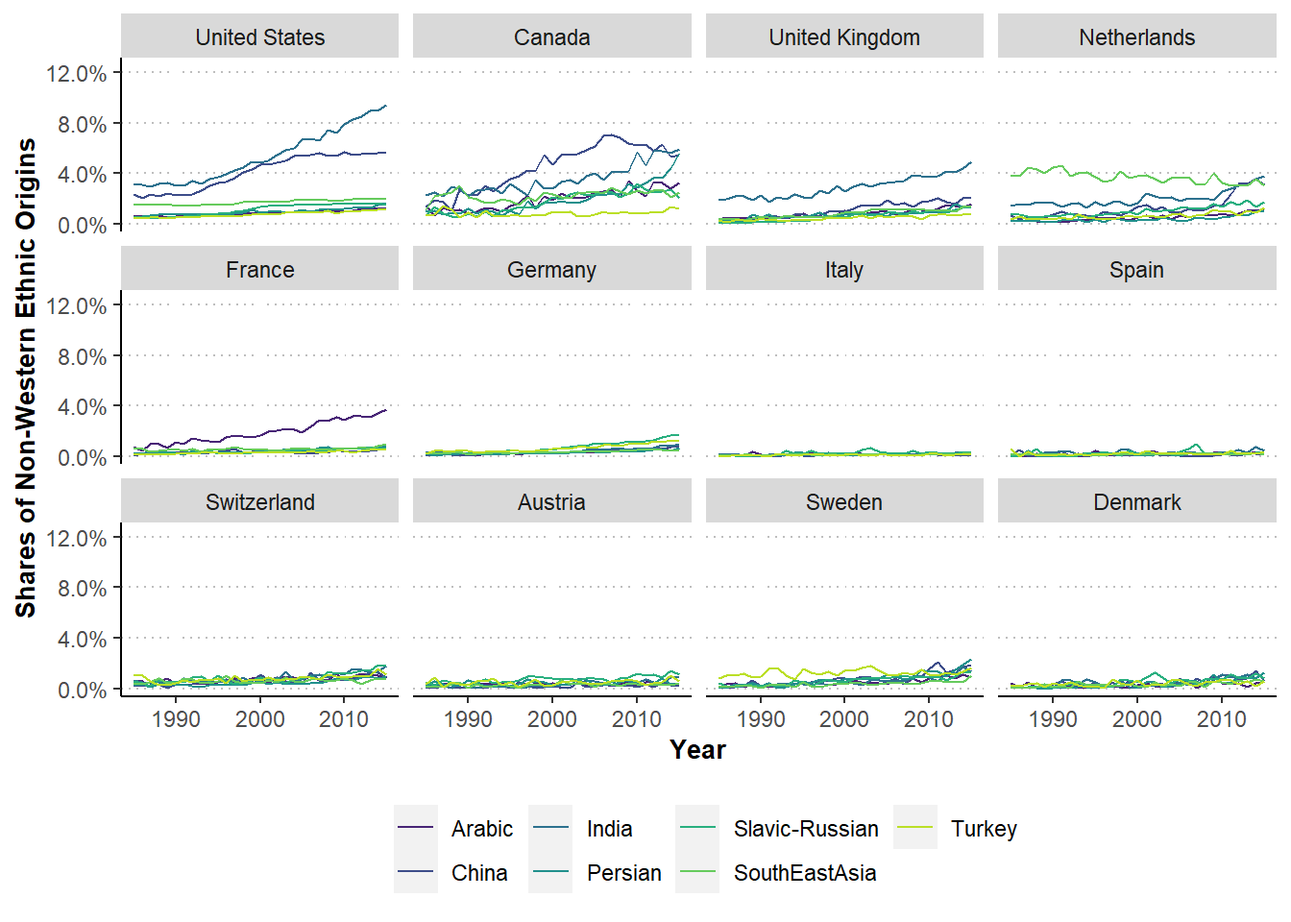
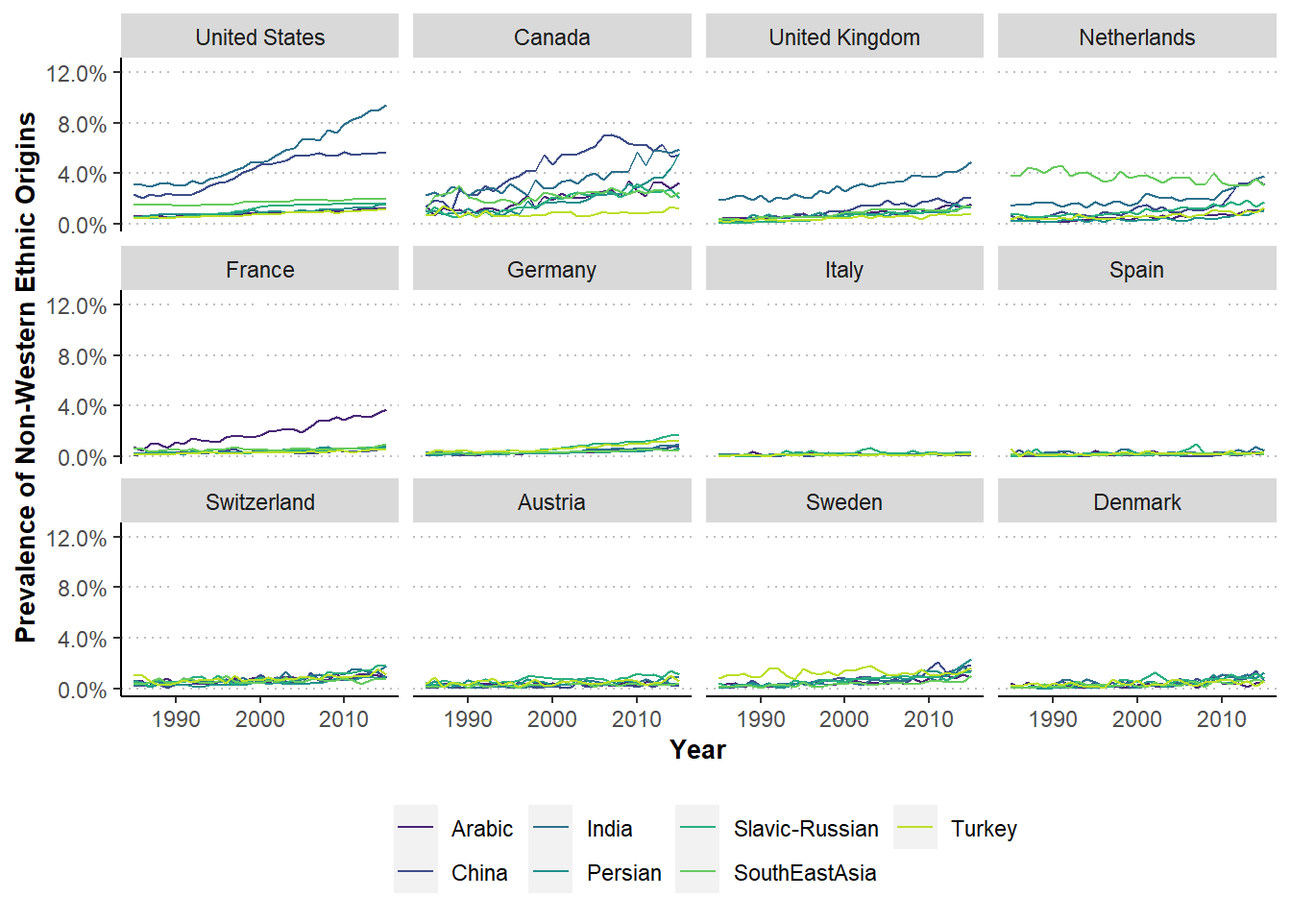
insert text after proofreading

Changed region(s): [[0.0, 0.125, 0.0312, 0.7188]]

diff --git a/report/report_main.html b/report/report_main.html
@@ -14,7 +14,7 @@
 
 <title>report_main.utf8</title>
 
-<script src="report_main_files/header-attrs-2.4/header-attrs.js"></script>
+<script src="report_main_files/header-attrs-2.7/header-attrs.js"></script>
 
 <style type="text/css">
   code{white-space: pre-wrap;}
@@ -23,7 +23,9 @@
   div.column{display: inline-block; vertical-align: top; width: 50%;}
   div.hanging-indent{margin-left: 1.5em; text-indent: -1.5em;}
   ul.task-list{list-style: none;}
-      </style>
+      .display.math{display: block; text-align: center; margin: 0.5rem auto;}
+  </style>
+
 
 
 
@@ -78,23 +80,24 @@
 <p><img src="title_picture.jpg" style="width:100.0%" /> <a href="https://unsplash.com/photos/MiVrRlSe4BI" target="_blank">Ellis Island, United States in 1910 | The New York Public Library</a></p>
 <p><br></p>
 <!-- TEASER ABSTRACT -->
-<p><strong>Inventors with non-western ethnic backgrounds have tremendously increased in the USA and contribute significantly to its inventive capacity. This is different in continental European countries that have been lagging behind in the global race for talents.</strong></p>
+<p><strong>The number of inventors with non-western ethnic backgrounds has increased tremendously in the USA and contributes significantly to its inventive capacity. This is different in continental European countries, which have been lagging behind in the global race for talents.</strong></p>
 <p><br></p>
-<p>Since 2010, around half of the Nobel Prizes in Chemistry, Medicine and Physics were awarded to researchers working at U.S. institutions. At the same time, around 40% of these prize winners were <em>not</em> born in the USA. This highlights that the USA also had important help from abroad to obtain its remarkable position. The country benefits substantially from a <a href=https://en.wikipedia.org/wiki/Human_capital_flight#Brain_gain target = “_blank”><em>Brain Gain</em></a> of foreign talents who often immigrated already as students or aspiring young researchers (see, e.g., <a href =https://direct.mit.edu/rest/article-abstract/95/2/698/58091/Chinese-Graduate-Students-and-U-S-Scientific target = “_blank”>Ganguli and Piacentini, 2013</a>; <a href=https://www.science.org/doi/full/10.1126/science.321.5886.185 target = “_blank”>Mervis, 2008</a> or <a href=https://direct.mit.edu/rest/article-https://www.science.org/doi/abs/10.1126/science.285.5431.1213 target=“_blank”>Levin and Stephan, 1999</a>).</p>
+<p>Since 2010, around half of the Nobel Prizes in Chemistry, Medicine and Physics have been awarded to researchers working at U.S. institutions. At the same time, around 40% of these prize winners were <em>not</em> born in the USA. This highlights the fact that the USA has also had important help from abroad to obtain its remarkable position. The country benefits substantially from a <a href=https://en.wikipedia.org/wiki/Human_capital_flight#Brain_gain target = “_blank”><em>Brain Gain</em></a> of foreign talents who often immigrated when they were students or aspiring young researchers (see, e.g., <a href =https://direct.mit.edu/rest/article-abstract/95/2/698/58091/Chinese-Graduate-Students-and-U-S-Scientific target = “_blank”>Ganguli and Piacentini, 2013</a>; <a href=https://www.science.org/doi/full/10.1126/science.321.5886.185 target = “_blank”>Mervis, 2008</a> or <a href=https://direct.mit.edu/rest/article-https://www.science.org/doi/abs/10.1126/science.285.5431.1213 target=“_blank”>Levin and Stephan, 1999</a>).</p>
 <p><br></p>
-<p>This brain gain for the USA is not restricted to academia. It can also be observed when looking at the ethnic composition of patent inventors. Traditionally, patenting in the USA was strongly dominated by inventors of Anglo-Saxon and—although to a (much) smaller extent—continental European ethnic origins. In recent decades, this has no longer been the case to the same extent. Especially the share of inventors with Chinese, Indian and other non-western ethnic backgrounds has strongly increased since the 1990s. Today, a substantial fraction of U.S.-based inventors is not of Anglo-Saxon origin anymore (<a href=https://www.hbs.edu/ris/Publication%20Files/Kerr%20WP08_EthMatch_f657d992-cf76-4b76-8b52-61cac126b5a8.pdf target = “_blank”>Kerr, 2008</a>).</p>
+<p>This brain gain for the USA is not restricted to academia. It can also be observed when looking at the ethnic composition of patent inventors. Traditionally, patenting in the USA has been strongly dominated by inventors of Anglo-Saxon and—although to a (much) smaller extent—continental European ethnic origins. In recent decades, this has no longer been the case. The share of inventors with Chinese, Indian and other non-western ethnic backgrounds has shown an especially strong increase since the 1990s. Today, a substantial fraction of U.S.-based inventors is no longer of Anglo-Saxon origin (<a href=https://www.hbs.edu/ris/Publication%20Files/Kerr%20WP08_EthMatch_f657d992-cf76-4b76-8b52-61cac126b5a8.pdf target = “_blank”>Kerr, 2008</a>).</p>
 <p><br></p>
-<p>Did this trend also emerge in other high-income countries, for example in Western Europe? We can investigate this question using a deep learning algorithm that classifies patent inventors’ ethnic origins based on their names (we are happy to provide methodological details to interested readers upon <a href="mailto:matthias.niggli@unibas.ch"> request</a>). This allows us to examine the ethnic composition of inventors beyond the USA and for a long period of time. Figure 1 plots the prevalence of inventors with different ethnic origins for 12 high-income countries.</p>
+<p>Has this trend also emerged in other high-income countries, for example, in Western Europe? We can investigate this question using a deep learning algorithm that classifies patent inventors’ ethnic origins based on their names (we are happy to provide methodological details to interested readers upon <a href="mailto:matthias.niggli@unibas.ch"> request</a>). This allows us to examine the ethnic composition of inventors both beyond the USA and for a long period of time. Figure 1 plots the prevalence of inventors with different ethnic origins for 12 high-income countries.</p>
 <!-- METHODOLOGY BOX / LINK TO PAPER -->
 <!-- <details> -->
 <!--   <summary>*Click here to get a detailed description of how we determine the ethnicity of inventors*</summary> -->
-<!-- <embed src="https://drive.google.com/file/d/1fq3oiSNQVscQ4m8AnzCHEbl0IyTK2j-Y/preview" width="100%" height="600"> -->
+<!-- <embed src="LINK TO PAPER" width="100%" height="600"> -->
 <!-- </details> -->
 <p><br></p>
 <hr class="hr_red">
 <div id="figure-1-the-prevalence-of-non-western-ethnic-inventors-is-low-in-continental-europe" class="section level4">
 <h4><strong>Figure 1: The Prevalence of Non-Western Ethnic Inventors Is Low in Continental Europe</strong></h4>
-<p><span style="font-size:0.8em"><strong>Prevalence of Non-Western Ethnic Origins Across Countries</strong></span> <img src="report_main_files/figure-html/unnamed-chunk-2-1.png" width="672" /> <span style="font-size:0.8em"><em>Sources and notes: Own estimations of the <a href="https://www.cieb.unibas.ch" target ="blank">CIEB</a> using the names of inventors as stated on EPO and USPTO patents. The raw data is obtained from the <a href="https://www.uspto.gov/" target ="blank">USPTO</a> and the <a href=https://stats.oecd.org/index.aspx?queryid=79486# target = “_blank”>OECD</a>. The processed data shown in the plot is available on <a href="https://github.com/cieb-unibas/inventor_ethnicity" target ="blank">Github</a>.</em></span></p>
+<!-- <span style="font-size:0.8em">**Prevalence of Non-Western Ethnic Origins Across Countries**</span> -->
+<p><img src="report_main_files/figure-html/unnamed-chunk-2-1.png" width="672" /> <span style="font-size:0.8em"><em>Sources and notes: Estimated Prevalence of Non-Western Ethnic Origins Across Countries. Own estimations of the <a href="https://www.cieb.unibas.ch" target ="blank">CIEB</a> using the names of inventors as stated on EPO and USPTO patents. The raw data is obtained from the <a href="https://www.uspto.gov/" target ="blank">USPTO</a> and the <a href=https://stats.oecd.org/index.aspx?queryid=79486# target = “_blank”>OECD</a>. The processed data shown in the plot is available on <a href="https://github.com/cieb-unibas/inventor_ethnicity" target ="blank">Github</a>.</em></span></p>
 <!-- HIGHLIGHT -->
 <div class="bloc_div">
 <blockquote>
@@ -102,15 +105,16 @@
 </blockquote>
 </div>
 <p><br></p>
-<p>The main take-away from this graph is a remarkable difference between North American and most European countries, with the United Kingdom and the Netherlands somewhere in between. Similar to the USA, Canada has also witnessed a stark increase of the prevalence of non-western inventors (although the absolute numbers are on a much smaller level). But most continental European countries look rather different. For example, France has experienced a significant increase of Arabic inventors, but all other non-western ethnic groups remained on low levels. In Germany, the prevalence of inventors with Turkish or Slavic-Russian origins has somewhat increased but remains rather low. Similarly, slight increases for some non-western ethnic groups can be found in Switzerland, Sweden, Austria and Denmark. However, in all these continental European countries, the prevalence of non-western origin inventors is on a much lower level compared to the USA. The contrast is even more pronounced in southern European countries like Italy and Spain.</p>
+<p>The main take-away from this graph is the remarkable difference between North American and most European countries, with the United Kingdom and the Netherlands somewhere in between. Similar to the USA, Canada has also witnessed a stark increase in the prevalence of non-western inventors (although the absolute numbers are on a much smaller scale). But most continental European countries look rather different. For example, France has experienced a significant increase in Arabic inventors, but all other non-western ethnic groups have remained on low levels. In Germany, the prevalence of inventors with Turkish or Slavic-Russian origins has risen somewhat, but remains rather low. Similarly, slight increases for some non-western ethnic groups can be found in Switzerland, Sweden, Austria, and Denmark. However, in all these continental European countries, the prevalence of non-western origin inventors is on a much lower level compared to the USA. The contrast is even more pronounced in southern European countries, like Italy and Spain.</p>
 <p><br></p>
-<p>Another interesting finding is that non-western ethnic inventors in the USA can be found predominantly in emerging high-technology fields, such as “Information &amp; Communication Technology” (ICT). Figure 2 illustrates this with an interactive visualization. It shows the combined prevalence of all the considered ethnic origins across different technological fields for the same countries as before.</p>
+<p>Another interesting finding is that non-western ethnic inventors in the USA can be found predominantly in emerging high-technology fields, such as “Information &amp; Communication Technology” (ICT). Figure 2 illustrates this interactively, showing the combined prevalence of all the considered ethnic origins across different technological fields for the same countries as before.</p>
 <p><br></p>
 <hr class="hr_red">
 </div>
 <div id="figure-2-the-usa-has-the-highest-non-western-prevalence-in-emerging-high-technology-fields" class="section level4">
 <h4><strong>Figure 2: The USA Has the Highest Non-Western Prevalence in Emerging High-Technology Fields</strong></h4>
-<p><span style="font-size:0.8em"><strong>Combined Prevalence of Non-Western Ethnic Origins Across Technologies</strong></span> <head>
+<!-- <span style="font-size:0.8em">**Combined Prevalence of Non-Western Ethnic Origins Across Technologies**</span> -->
+<p><head>
   <meta charset="utf-8">
   <link rel="stylesheet" href="https://maxcdn.bootstrapcdn.com/bootstrap/3.4.0/css/bootstrap.min.css">
   <link rel="stylesheet" href="https://cdn.jsdelivr.net/npm/bootstrap-select@1.13.9/dist/css/bootstrap-select.min.css">
@@ -342,7 +346,7 @@ Plotly.newPlot('myDiv', data, layout, {displayModeBar: false});
 <div id='myDiv'></div>
 
 </body>
-     <span style="font-size:0.8em"><em>Sources and notes: Own estimations of the <a href="https://www.cieb.unibas.ch" target ="blank">CIEB</a> using the names of inventors as stated on EPO and USPTO patents. The raw data is obtained from the <a href="https://www.uspto.gov/" target ="blank">USPTO</a> and the <a href=https://stats.oecd.org/index.aspx?queryid=79486# target = “_blank”>OECD</a>. The processed data shown in the plot is available on <a href="https://github.com/cieb-unibas/inventor_ethnicity" target ="blank">Github</a>.</em></span></p>
+     <span style="font-size:0.8em"><em>Sources and notes: Combined Prevalence of Non-Western Ethnic Origins Across Technologies. Own estimations of the <a href="https://www.cieb.unibas.ch" target ="blank">CIEB</a> using the names of inventors as stated on EPO and USPTO patents. The raw data is obtained from the <a href="https://www.uspto.gov/" target ="blank">USPTO</a> and the <a href=https://stats.oecd.org/index.aspx?queryid=79486# target = “_blank”>OECD</a>. The processed data shown in the plot is available on <a href="https://github.com/cieb-unibas/inventor_ethnicity" target ="blank">Github</a>.</em></span></p>
 <p><br></p>
 <!-- HIGHLIGHT -->
 <div class="bloc_div">
@@ -350,24 +354,25 @@ Plotly.newPlot('myDiv', data, layout, {displayModeBar: false});
 <strong><em>The vast increase of non-western inventors in the USA has been strongly directed towards emerging high-technology fields</em></strong>
 </blockquote>
 </div>
-<p>The USA has a clearly higher ethnic diversity in almost all fields compared to European countries. But there is substantial heterogeneity across technologies within the USA. Besides ICT, non-western inventors are much more prevalent in technology fields such as “Computer Technology” or “Semiconductors” compared to more traditional fields such as “Transport” or “Machines”. This pattern cannot be observed for European countries, where the prevalence is similar and rather low in most technology fields. Hence, our analysis highlights two main points: First, the bulk of migrating non-western inventors has gone to the USA and not to continental European countries. Second, the inflow of non-western inventors to the USA has been strongly directed towards emerging high-technology fields.</p>
+<p>The ethnic diversity in the USA is clearly higher in almost all fields compared to European countries. But there is substantial heterogeneity across technologies within the USA. In addition to ICT, non-western inventors are much more prevalent in technology fields, such as “Computer Technology” or “Semiconductors”, compared to more traditional fields, such as “Transport” or “Machines”. This pattern cannot be observed for European countries, where the prevalence is similar and rather low in most technology fields. Hence, our analysis highlights two main points: First, the bulk of migrating, non-western inventors has gone to the USA and not to continental European countries. Second, the inflow of non-western inventors to the USA has been strongly directed towards emerging high-technology fields.</p>
 <p><br></p>
 </div>
 </div>
 <div id="what-does-this-mean-for-european-policymakers" class="section level3">
 <h3><strong>What does this mean for European Policymakers? </strong></h3>
-<p>Should European policymakers be concerned about these differences? There is no final answer, but researchers have found evidence that immigration and diversity can foster innovative activity and growth through several channels. First of all, access to highly skilled talents is an important factor for companies’ decisions where to locate their research and development activities (<a href=https://link.springer.com/article/10.1057/jibs.2008.92 target = “_blank”>Lewin, Massini and Peeters, 2009</a>), and more diverse inventor teams seem to directly enhance inventive output of firms (see <a href=https://www.sciencedirect.com/science/article/abs/pii/S0048733319300824 target = “_blank”>Ferucci and Lissoni, 2019</a> or <a href=https://link.springer.com/article/10.1007/s00148-013-0491-7 target = “_blank”>Parrotta, Pozzoli and Pytlikova, 2014</a>). More generally, there is a large literature demonstrating that immigration also spurs innovation at the country-level (see, e.g., <a href=https://www.nber.org/papers/w27075 target = “_blank”>Burchardi, Chaney, Hassan, Tarquinio and Terry, 2020</a> or <a href=https://www.aeaweb.org/articles?id=10.1257/aer.p20171021 target = “_blank”>Akcigit, Grigsby and Nicholas, 2017</a> for the USA and <a href=https://papers.ssrn.com/sol3/papers.cfm?abstract_id=3728867 target = “_blank”>Cristelli and Lissoni, 2020</a> or <a href=https://www.sciencedirect.com/science/article/abs/pii/S0048733318302737 target = “_blank”> Fassio, Montobbio, and Venturini, 2019</a> for Switzerland and European countries). Hence, there is extensive evidence that immigration can contribute to a country’s innovation capabilities. The USA’s extraordinary attractiveness for inventors from all around the world could thus be an important asset that is lacking in European countries. This should be a concern for European policymakers.</p>
+<p>Should European policymakers be concerned about these differences? There is no final answer, but researchers have found evidence that there are several channels through which immigration and diversity can foster innovative activity and growth. First of all, access to highly skilled talents is an important factor for companies’ decisions on where to locate their research and development activities (<a href=https://link.springer.com/article/10.1057/jibs.2008.92 target = “_blank”>Lewin, Massini and Peeters, 2009</a>) and more diverse inventor teams seem to directly enhance the inventive output of firms (see <a href=https://www.sciencedirect.com/science/article/abs/pii/S0048733319300824 target = “_blank”>Ferucci and Lissoni, 2019</a> or <a href=https://link.springer.com/article/10.1007/s00148-013-0491-7 target = “_blank”>Parrotta, Pozzoli and Pytlikova, 2014</a>). More generally, there is a large literature demonstrating that immigration also spurs innovation at the country-level (see, e.g., <a href=https://www.nber.org/papers/w27075 target = “_blank”>Burchardi, Chaney, Hassan, Tarquinio and Terry, 2020</a> or <a href=https://www.aeaweb.org/articles?id=10.1257/aer.p20171021 target = “_blank”>Akcigit, Grigsby and Nicholas, 2017</a> for the USA and <a href=https://papers.ssrn.com/sol3/papers.cfm?abstract_id=3728867 target = “_blank”>Cristelli and Lissoni, 2020</a> or <a href=https://www.sciencedirect.com/science/article/abs/pii/S0048733318302737 target = “_blank”> Fassio, Montobbio, and Venturini, 2019</a> for Switzerland and European countries). Hence, there is extensive evidence that immigration can contribute to a country’s innovation capabilities. The USA’s extraordinary attractiveness for inventors from all around the world could thus be an important asset that is lacking in European countries. This should be a concern for European policymakers.</p>
 <p><br></p>
-<p>But why do we observe these differences between North America and Europe? One could argue that they simply reflect that the USA has always been an immigrant and ethnically diverse country. Its higher prevalence of non-western inventors could then simply reflect this fact. Although this surely plays a role, it can be shown easily that migration has been a very important factor. Using data from the <a href="https://www.wipo.int/publications/en/details.jsp?id=3952&plang=EN" target ="blank">World Intellectual Property Organization (WIPO)</a>, Figure 3 highlights that the stock and growth of inventor immigrants has been much higher in the USA compared to all other countries. Accordingly, there must be other factors than solely historical patterns that explain differences between continental European countries, Canada and the USA.</p>
+<p>But why do these differences between North America and Europe exist? One could argue that they merely indicate that the USA has always been an immigrant and ethnically diverse country. Its higher prevalence of non-western inventors could then simply reflect this fact. Although this surely plays a role, it can easily be shown that migration has been a very important factor. Using data from the <a href="https://www.wipo.int/publications/en/details.jsp?id=3952&plang=EN" target ="blank">World Intellectual Property Organization (WIPO)</a>, Figure 3 highlights the fact that the stock and growth of inventor immigrants has been much higher in the USA compared to all other countries. Accordingly, there must be other factors than solely historical patterns that explain differences between continental European countries, Canada and the USA.</p>
 <p><br></p>
 <hr class="hr_red">
 <div id="figure-3-the-usa-attracts-a-large-number-of-immigrant-inventors" class="section level4">
 <h4><strong>Figure 3: The USA Attracts a Large Number of Immigrant Inventors</strong></h4>
-<p><span style="font-size:0.8em"><strong>Stocks of Immigrant Inventors Across Countries</strong></span> <img src="report_main_files/figure-html/unnamed-chunk-4-1.png" width="672" /> <span style="font-size:0.8em"><em>Sources and notes: Own estimations of the <a href="https://www.cieb.unibas.ch" target ="blank">CIEB</a> using data from the <a href="https://www.wipo.int/publications/en/details.jsp?id=3952&plang=EN" target ="blank">World Intellectual Property Organization WIPO</a>. The processed data shown in the plot is available on <a href="https://github.com/cieb-unibas/inventor_ethnicity" target ="blank">Github</a>.</em></span></p>
+<!-- <span style="font-size:0.8em">**Stocks of Immigrant Inventors Across Countries**</span> -->
+<p><img src="report_main_files/figure-html/unnamed-chunk-4-1.png" width="672" /> <span style="font-size:0.8em"><em>Sources and notes: Own estimations of the <a href="https://www.cieb.unibas.ch" target ="blank">CIEB</a> using data from the <a href="https://www.wipo.int/publications/en/details.jsp?id=3952&plang=EN" target ="blank">World Intellectual Property Organization WIPO</a>. The processed data shown in the plot is available on <a href="https://github.com/cieb-unibas/inventor_ethnicity" target ="blank">Github</a>.</em></span></p>
 <p><br></p>
-<p>Some channels that all contribute to the differences are the English language as a <em>lingua franca</em> (e.g., <a href=https://ftp.iza.org/dp1782.pdf target=”_blank”>Chiswick, 2005</a>), the access to and attractiveness of U.S. universities (e.g., <a href= https://direct.mit.edu/rest/article-abstract/95/1/109/58045/Quotas-and-Quality-The-Effect-of-H-1B-Visa target=”_blank”>Kato and Sparber, 2013</a>), tax incentives (<a href=https://www.aeaweb.org/articles?id=10.1257/aer.20150237 target=”_blank”>Akcigit, Baslandze and Stantcheva, 2016</a>), and, last but not least, immigration policies (e.g., <a href= https://www.journals.uchicago.edu/doi/full/10.1086/705637 target=”_blank”>Kerr, 2020</a>). Some of these channels, such as the language, can obviously not be influenced by policymakers. However, the access to universities for foreign students as well as immigration regulations are within their reach and could be adapted to attract more foreign talents.</p>
+<p>Some channels that all contribute to the differences are the English language as a <em>lingua franca</em> (e.g., <a href=https://ftp.iza.org/dp1782.pdf target=”_blank”>Chiswick, 2005</a>), access to and attractiveness of U.S. universities (e.g., <a href= https://direct.mit.edu/rest/article-abstract/95/1/109/58045/Quotas-and-Quality-The-Effect-of-H-1B-Visa target=”_blank”>Kato and Sparber, 2013</a>), tax incentives (<a href=https://www.aeaweb.org/articles?id=10.1257/aer.20150237 target=”_blank”>Akcigit, Baslandze and Stantcheva, 2016</a>), and, last but not least, immigration policies (e.g., <a href= https://www.journals.uchicago.edu/doi/full/10.1086/705637 target=”_blank”>Kerr, 2020</a>). It is clear that some of these channels, such as the language, cannot be influenced by policymakers. However, access to universities for foreign students, as well as immigration regulations are, indeed, within the reach of policymakers and could be adapted to attract more foreign talents.</p>
 <p><br></p>
-<p>The European Union’s <a href=https://en.wikipedia.org/wiki/Blue_Card_%28European_Union%29 target=”_blank”>Blue Card</a> has been an attempt with this regard. But according to a <a href=https://www.oecd-ilibrary.org/social-issues-migration-health/recruiting-immigrant-workers-europe-2016_9789264257290-en target=”_blank”>OECD report from 2016</a>, the results have been rather mixed. However, it is encouraging that the <a href=https://www.europarl.europa.eu/news/en/press-room/20210910IPR11915/new-eu-blue-card-rules-for-highly-qualified-immigrants-wishing-to-work-in-europe target=”_blank”>European Parliament</a> has recently passed a reform of the EU Blue Card in order “to facilitate the employment of highly qualified non-EU nationals and help alleviate labour shortages in key sectors”. It remains to be hoped that the adopted rules achieve this ambitious goal and contribute to strengthen European countries’ innovative frameworks.</p>
+<p>The European Union’s <a href=https://en.wikipedia.org/wiki/Blue_Card_%28European_Union%29 target=”_blank”>Blue Card</a> has been an attempt in this regard. But according to an <a href=https://www.oecd-ilibrary.org/social-issues-migration-health/recruiting-immigrant-workers-europe-2016_9789264257290-en target=”_blank”>OECD report from 2016</a>, the results have been rather mixed. However, it is encouraging that the <a href=https://www.europarl.europa.eu/news/en/press-room/20210910IPR11915/new-eu-blue-card-rules-for-highly-qualified-immigrants-wishing-to-work-in-europe target=”_blank”>European Parliament</a> has recently passed a reform of the EU Blue Card in order “to facilitate the employment of highly qualified, non-EU nationals and help alleviate labour shortages in key sectors”. It remains to be hoped that the rules adopted will achieve this ambitious goal and contribute to strengthening the innovative frameworks of European countries.</p>
 <p><br></p>
 <!-- ADAPT when posted on Social Media -->
 <!-- <br> -->
